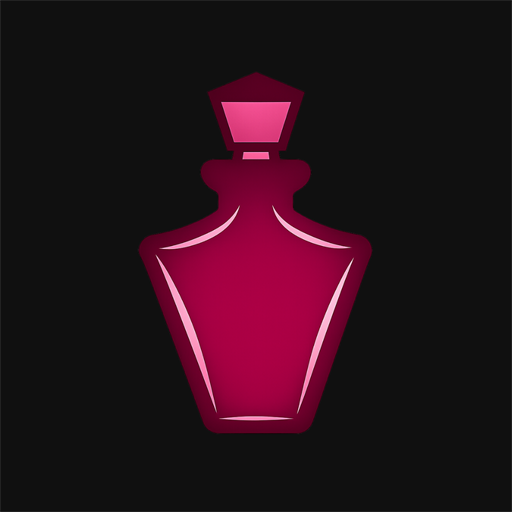
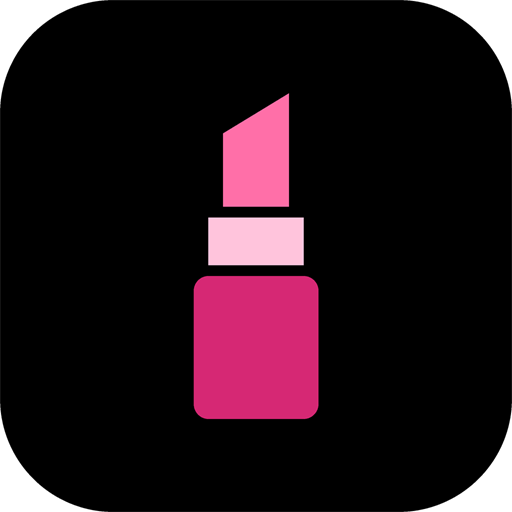
feat: add splash screen and route prefetching for improved app startup performance
- Implemented a splash screen mechanism that hides once critical resources are loaded.
- Added a startup function to track loading times of essential components.
- Introduced route prefetching to load screens on demand, ensuring no delays during app opening.
- Created a new `routes.ts` file to manage dynamic imports for various app screens.
- Added font loading logic to enhance text rendering performance.

diff --git a/index.html b/index.html
@@ -16,12 +16,21 @@
     <meta name="apple-mobile-web-app-capable" content="yes">
     <meta name="apple-mobile-web-app-status-bar-style" content="black-translucent">
     <meta name="apple-mobile-web-app-title" content="Ke Gestão">
-    <link rel="apple-touch-icon" href="/icon-192.png">
-    <link rel="icon" type="image/png" href="/icon-192.png">
+    <link rel="apple-touch-icon" href="/apple-touch-icon.png">
+    <link rel="icon" type="image/png" sizes="32x32" href="/favicon-32.png">
+    <link rel="icon" type="image/png" sizes="192x192" href="/icon-192.png">
 
     <!-- Android/Generic PWA -->
     <meta name="mobile-web-app-capable" content="yes">
     <meta name="application-name" content="Ke Gestão">
+
+    <style>
+      /* Splash: preto, batom centralizado. Largura ≈ 21% da tela e altura ≈ 30% (o menor dos dois limites). */
+      html.splash-on { background: #000; }
+      #splash { position: fixed; inset: 0; z-index: 2147483647; display: flex; align-items: center; justify-content: center; background: #000; opacity: 1; }
+      #splash.hide { opacity: 0; pointer-events: none; }
+      #sp-svg { display: block; height: auto; aspect-ratio: 68 / 178; overflow: visible; width: min(21vw, calc(30vh * 68 / 178)); width: min(21vw, calc(30dvh * 68 / 178)); }
+    </style>
 
     <script>
       // Aplica o tema antes da primeira pintura (sem piscar). Mesma regra do store:
@@ -66,6 +75,117 @@
     </script>
 </head>
 <body class="bg-surface text-on-surface select-none">
+    <!-- Splash: cores do batom nos atributos fill abaixo; tempos e fade em CFG, no script logo depois. -->
+    <div id="splash" aria-hidden="true">
+      <svg id="sp-svg" viewBox="156 104 68 178" focusable="false">
+        <g id="sp-g">
+          <polygon id="sp-tip" points="172,166 172,126 208,104 208,166" fill="#FF6FA8" transform="translate(0 166) scale(1 0) translate(0 -166)" />
+          <rect id="sp-cap" x="164" y="172" width="52" height="26" fill="#FFC4DC" opacity="0" transform="translate(0 -70)" />
+          <rect id="sp-body" x="156" y="204" width="68" height="78" rx="8" fill="#D62874" opacity="0" transform="translate(0 70)" />
+        </g>
+      </svg>
+    </div>
+    <script>
+      (function () {
+        // ── Ajustes ──────────────────────────────────────────────────────────────
+        // Tempos em ms, desde o primeiro quadro. Distâncias em unidades do desenho (viewBox).
+        var CFG = {
+          total: 2000,          // duração da animação; o splash nunca sai antes disso
+          safety: 6000,         // some mesmo que o app não fique pronto
+          fade: 150,            // fade-out
+          travel: 70,           // corpo vem de baixo / tampa vem de cima
+          body: [210, 670],     // corpo sobe
+          cap: [440, 900],      // tampa desce
+          tip: [780, 1310],     // ponta cresce (ancorada na base, y = 166)
+          pulse: [1540, 1990],  // pulso 1 → 1,03 → 1
+          pulseScale: 0.03
+        };
+        // ─────────────────────────────────────────────────────────────────────────
+        var doc = document, root = doc.documentElement;
+        var el = doc.getElementById('splash');
+        if (!el) return;
+        // Única chave de teste do app: com ela o splash não existe (senão intercepta os toques dos testes de tela).
+        try {
+          if (localStorage.getItem('ke:sem-splash') === '1') {
+            el.parentNode.removeChild(el);
+            window.__splash = { finished: Promise.resolve(), hide: function () {}, seek: function () {}, config: CFG };
+            return;
+          }
+        } catch (e) {}
+        var gBody = doc.getElementById('sp-body'), gCap = doc.getElementById('sp-cap'), gTip = doc.getElementById('sp-tip'), gAll = doc.getElementById('sp-g');
+        var mark = function (n) { try { performance.mark(n); } catch (e) {} };
+
+        root.classList.add('splash-on');
+        // A barra do sistema acompanha o preto durante o splash e volta ao tema depois.
+        var metas = [].slice.call(doc.querySelectorAll('meta[name="theme-color"]'));
+        var savedColors = metas.map(function (m) { return m.getAttribute('content'); });
+        metas.forEach(function (m) { m.setAttribute('content', '#000000'); });
+
+        var ease = function (x) { x = x < 0 ? 0 : x > 1 ? 1 : x; return 1 - Math.pow(1 - x, 3); };
+        var prog = function (t, r) { return ease((t - r[0]) / (r[1] - r[0])); };
+
+        function draw(t) {
+          var b = prog(t, CFG.body);
+          gBody.setAttribute('transform', 'translate(0 ' + ((1 - b) * CFG.travel) + ')');
+          gBody.setAttribute('opacity', b);
+          var c = prog(t, CFG.cap);
+          gCap.setAttribute('transform', 'translate(0 ' + (-(1 - c) * CFG.travel) + ')');
+          gCap.setAttribute('opacity', c);
+          var s = prog(t, CFG.tip);
+          gTip.setAttribute('transform', 'translate(0 166) scale(1 ' + s + ') translate(0 -166)');
+          var u = (t - CFG.pulse[0]) / (CFG.pulse[1] - CFG.pulse[0]);
+          var k = u > 0 && u < 1 ? 1 + CFG.pulseScale * Math.sin(Math.PI * ease(u)) : 1;
+          gAll.setAttribute('transform', 'translate(190 193) scale(' + k + ') translate(-190 -193)');
+        }
+
+        var raf = 0, hidden = false, done;
+        var finished = new Promise(function (resolve) { done = resolve; });
+
+        function stop() { if (raf) { cancelAnimationFrame(raf); raf = 0; } }
+        function finish() { stop(); draw(CFG.total); mark('splash:finished'); done(); }
+
+        function hide() {
+          if (hidden) return;
+          hidden = true;
+          stop();
+          mark('splash:hide');
+          el.style.transition = 'opacity ' + CFG.fade + 'ms linear';
+          el.classList.add('hide');
+          setTimeout(function () {
+            if (el.parentNode) el.parentNode.removeChild(el);
+            root.classList.remove('splash-on');
+            metas.forEach(function (m, i) { m.setAttribute('content', savedColors[i]); });
+            mark('splash:removed');
+          }, CFG.fade + 30);
+        }
+
+        // Relógio, não contagem de quadros: o tempo vem do rAF, então quadros perdidos não alongam a animação.
+        var t0 = null;
+        function frame(now) {
+          if (t0 === null) { t0 = now; mark('splash:start'); }
+          var t = now - t0;
+          if (t >= CFG.total) { finish(); return; }
+          draw(t);
+          raf = requestAnimationFrame(frame);
+        }
+
+        window.__splash = {
+          finished: finished,
+          hide: hide,
+          // Para teste: congela no instante t (ms) e desenha esse quadro.
+          seek: function (t) { stop(); draw(t); },
+          config: CFG
+        };
+
+        setTimeout(hide, CFG.safety);
+
+        if (window.matchMedia && window.matchMedia('(prefers-reduced-motion: reduce)').matches) {
+          finish(); // só o quadro final; sai assim que o app estiver pronto
+        } else {
+          raf = requestAnimationFrame(frame);
+        }
+      })();
+    </script>
     <div id="root"></div>
     <script type="module" src="/index.tsx"></script>
 </body>

diff --git a/services/startup.ts b/services/startup.ts
@@ -1,0 +1,68 @@
+import { boot } from './boot';
+import { prefetchRoutes } from '../views/routes';
+
+// Meta de abertura: tudo crítico pronto antes da animação terminar (2 s), com folga.
+const BUDGET_MS = 1800;
+
+interface SplashApi {
+  finished: Promise<void>;
+  hide: () => void;
+}
+
+declare global {
+  interface Window {
+    __splash?: SplashApi;
+  }
+}
+
+// O App chama quando a primeira tela pronta foi montada; esperamos duas pinturas para ela já estar visível.
+let resolveRendered: () => void = () => {};
+const rendered = new Promise<void>((resolve) => { resolveRendered = resolve; });
+
+export const markRendered = () => {
+  requestAnimationFrame(() => requestAnimationFrame(() => resolveRendered()));
+};
+
+// A fonte é variável (um arquivo só): carregar um peso carrega todos. O texto pede o subconjunto latino.
+const loadFonts = (): Promise<unknown> =>
+  Promise.allSettled([
+    document.fonts.load('400 16px Roboto', 'Ke Gestão R$ 0123456789 ãçé'),
+    document.fonts.load('500 16px Roboto', 'Ke Gestão R$ 0123456789 ãçé')
+  ]);
+
+const track = (name: string, promise: Promise<unknown>): Promise<[string, number]> =>
+  promise.then(() => {
+    const at = Math.round(performance.now());
+    performance.mark(`ke:${name}`);
+    return [name, at];
+  });
+
+// Dispara tudo que é crítico de uma vez e libera o splash quando animação E app estiverem prontos.
+// O splash tem timeout de segurança próprio (6 s, no index.html), então nada aqui pode travar a abertura para sempre.
+export const startup = () => {
+  const critical = Promise.all([
+    track('banco', boot()),
+    track('fonte', loadFonts()),
+    track('telas', prefetchRoutes()),
+    track('render', rendered)
+  ]);
+
+  const splash = window.__splash;
+  critical.then((marks) => {
+    performance.mark('ke:app-pronto');
+    if (import.meta.env.DEV) report(marks);
+    if (splash) splash.finished.then(splash.hide);
+  });
+};
+
+const report = (marks: [string, number][]) => {
+  const total = Math.max(...marks.map(([, at]) => at));
+  const sorted = [...marks].sort((a, b) => b[1] - a[1]);
+  console.info(
+    `[abertura] app pronto em ${total} ms (meta ${BUDGET_MS} ms)`,
+    Object.fromEntries(marks.map(([name, at]) => [name, `${at} ms`]))
+  );
+  if (total > BUDGET_MS) {
+    console.warn(`[abertura] acima da meta: o que mais pesa é "${sorted[0][0]}" (${sorted[0][1]} ms). Candidatos: code-splitting, lazy, cache.`);
+  }
+};

diff --git a/vite.config.ts b/vite.config.ts
@@ -114,6 +114,39 @@ function precachePlugin(): Plugin {
   };
 }
 
+/**
+ * Põe no HTML o que a abertura vai precisar, para baixar em paralelo com o JS principal em vez de
+ * só depois dele (numa rede lenta isso empurra a abertura do app):
+ *  - a fonte (senão só é descoberta depois do CSS e do texto que a usa);
+ *  - os pedaços das telas carregadas sob demanda (o boot os pede logo ao iniciar).
+ * Os nomes têm hash, então os links saem dos arquivos que o build realmente emitiu.
+ */
+function startupPreloadPlugin(): Plugin {
+  return {
+    name: 'ke-gestao-startup-preload',
+    apply: 'build',
+    transformIndexHtml: {
+      order: 'post',
+      handler(_html, ctx) {
+        if (!ctx.bundle) return;
+        const tags: { tag: string; attrs: Record<string, string>; injectTo: 'head-prepend' | 'head' }[] = [];
+
+        const font = Object.keys(ctx.bundle).find(f => /roboto-latin-wght-normal.*.woff2$/.test(f));
+        if (font) {
+          tags.push({ tag: 'link', attrs: { rel: 'preload', as: 'font', type: 'font/woff2', href: '/' + font, crossorigin: '' }, injectTo: 'head-prepend' });
+        }
+
+        for (const [file, item] of Object.entries(ctx.bundle)) {
+          if (item.type === 'chunk' && item.isDynamicEntry) {
+            tags.push({ tag: 'link', attrs: { rel: 'modulepreload', crossorigin: '', href: '/' + file }, injectTo: 'head' });
+          }
+        }
+        return tags;
+      }
+    }
+  };
+}
+
 export default defineConfig(() => {
   const git = getGitInfo();
   const version = readPkgVersion();
@@ -124,7 +157,7 @@ export default defineConfig(() => {
       port: 3000,
       host: '0.0.0.0',
     },
-    plugins: [react(), versionJsonPlugin(version, git, buildTime), precachePlugin()],
+    plugins: [react(), versionJsonPlugin(version, git, buildTime), precachePlugin(), startupPreloadPlugin()],
     test: {
       include: ['core/**/*.test.ts', 'services/**/*.test.ts']
     },

diff --git a/App.tsx b/App.tsx
@@ -2,16 +2,18 @@ import React, { useState, useEffect, useMemo, useCallback, lazy, Suspense } from
 import { useStore } from './store/useStore';
 import Layout from './components/Layout';
 import { HomeAppBar } from './components/AppBar';
+import { routes } from './views/routes';
+import { markRendered } from './services/startup';
 import Dashboard from './views/Dashboard';
 
 // Só o Dashboard (tela inicial) vai no pacote principal; as demais views carregam sob demanda.
 // O service worker pré-cacheia todos os pedaços, então continuam funcionando offline.
-const Customers = lazy(() => import('./views/Customers'));
-const EditCustomer = lazy(() => import('./views/EditCustomer'));
-const Inventory = lazy(() => import('./views/Inventory'));
-const NewSale = lazy(() => import('./views/NewSale'));
-const Debtors = lazy(() => import('./views/Debtors'));
-const Profile = lazy(() => import('./views/Profile'));
+const Customers = lazy(routes.customers);
+const EditCustomer = lazy(routes.editCustomer);
+const Inventory = lazy(routes.inventory);
+const NewSale = lazy(routes.newSale);
+const Debtors = lazy(routes.debtors);
+const Profile = lazy(routes.profile);
 
 const App: React.FC = () => {
   const {
@@ -194,6 +196,11 @@ const App: React.FC = () => {
       onNotifications={() => setCurrentView('debtors')}
     />
   ) : undefined;
+
+  // Avisa o splash que a primeira tela pronta já foi montada (ele espera a pintura).
+  useEffect(() => {
+    if (ready) markRendered();
+  }, [ready]);
 
   // Enquanto o banco abre (poucos ms) fica só o fundo; evita mostrar o app vazio e depois "pular".
   if (!ready) return <div className="min-h-dvh bg-gray-50 dark:bg-slate-950" aria-busy="true" />;

diff --git a/index.tsx b/index.tsx
@@ -1,12 +1,16 @@
 import React from 'react';
 import ReactDOM from 'react-dom/client';
 import App from './App';
+import { startup } from './services/startup';
 import './index.css';
 
 const rootElement = document.getElementById('root');
 if (!rootElement) {
   throw new Error("Could not find root element to mount to");
 }
+
+// Cargas críticas (banco, fonte, telas) em paralelo, antes mesmo do primeiro render.
+startup();
 
 const root = ReactDOM.createRoot(rootElement);
 root.render(
@@ -15,9 +19,8 @@ root.render(
   </React.StrictMode>
 );
 
-// Só em produção: em dev o SW serviria módulos velhos por cima do HMR.
+// Só em produção, e já agora (não no `load`): o pré-cache do service worker baixa em paralelo com a abertura.
+// Em dev o SW serviria módulos velhos por cima do HMR.
 if (import.meta.env.PROD && 'serviceWorker' in navigator) {
-  window.addEventListener('load', () => {
-    navigator.serviceWorker.register('/sw.js').catch(err => console.error('Ke Gestão: falha no Service Worker', err));
-  });
+  navigator.serviceWorker.register('/sw.js').catch(err => console.error('Ke Gestão: falha no Service Worker', err));
 }

diff --git a/views/routes.ts b/views/routes.ts
@@ -1,0 +1,14 @@
+// Um loader por tela carregada sob demanda. O App usa estes mesmos loaders no `lazy`, e o boot os
+// dispara de uma vez (prefetch): quando o splash sai, nenhuma troca de tela espera rede.
+export const routes = {
+  customers: () => import('./Customers'),
+  editCustomer: () => import('./EditCustomer'),
+  inventory: () => import('./Inventory'),
+  newSale: () => import('./NewSale'),
+  debtors: () => import('./Debtors'),
+  profile: () => import('./Profile')
+};
+
+// Uma tela que falha ao carregar não pode segurar a abertura do app: ela tenta de novo quando for aberta.
+export const prefetchRoutes = (): Promise<unknown> =>
+  Promise.allSettled(Object.values(routes).map((load) => load()));

diff --git a/public/sw.js b/public/sw.js
@@ -10,7 +10,9 @@ const CACHE_NAME = CACHE_PREFIX + BUILD_ID;
 self.addEventListener('install', (event) => {
   event.waitUntil(
     caches.open(CACHE_NAME).then((cache) =>
-      cache.addAll(PRECACHE.map((url) => new Request(url, { cache: 'reload' })))
+      // Arquivos com hash no nome nunca mudam: podem sair do cache HTTP (o prefetch da abertura já os baixou),
+      // senão a primeira visita baixaria cada pedaço duas vezes. O resto (shell, manifest) vem fresco.
+      cache.addAll(PRECACHE.map((url) => new Request(url, { cache: url.startsWith('/assets/') ? 'default' : 'reload' })))
     )
   );
   self.skipWaiting();

diff --git a/ke-gestao-blueprint.md b/ke-gestao-blueprint.md
@@ -157,3 +157,10 @@ O sistema utiliza um único objeto `AppData` no LocalStorage:
 - **Telas no mockup:** Início, Estoque e Perfil seguem as medidas do mockup (80 conferências em 412×892, nos dois modos). O Perfil agora salva ao sair do campo (sem botão "Salvar").
 - **Telas fora do mockup** (Clientes, Financeiro, Nova venda, Editar cliente, seletor de cliente, Informações do sistema): ainda usam `slate`/`gray`/`rose`; no `tailwind.config.js` essas escalas apontam para os tons do Material 3 (paleta de transição). Migrar uma tela = trocar essas classes pelos papéis de cor.
 - **Fonte:** Roboto (era Inter).
+
+### 30/10/2026 — Splash do batom e ícone novo
+- **Splash:** 2 s, SVG/CSS inline no `index.html` (aparece antes do bundle), guiada pelo relógio (`performance.now`). Ajustes em `CFG` (tempos, fade, timeout) e nos `fill` do SVG (cores).
+- **Abertura:** `services/startup.ts` dispara banco, fonte e telas em paralelo e libera o splash quando animação e app estiverem prontos (timeout de segurança de 6 s). Em dev, o console mostra o tempo de abertura (meta 1,8 s). Em produção, as marcas `ke:*` e `splash:*` ficam em `performance.getEntriesByType('mark')`.
+- **Build:** o HTML pré-carrega a fonte e os pedaços das telas (`startupPreloadPlugin` em `vite.config.ts`).
+- **Teste:** a chave `localStorage['ke:sem-splash'] = '1'` desliga o splash (senão ele intercepta o toque dos testes de tela).
+- **Ícone:** `design/icone_batom.png` é a origem; `public/` tem icon-192, icon-512, icon-maskable-512 (full-bleed), apple-touch-icon e favicon-32.
